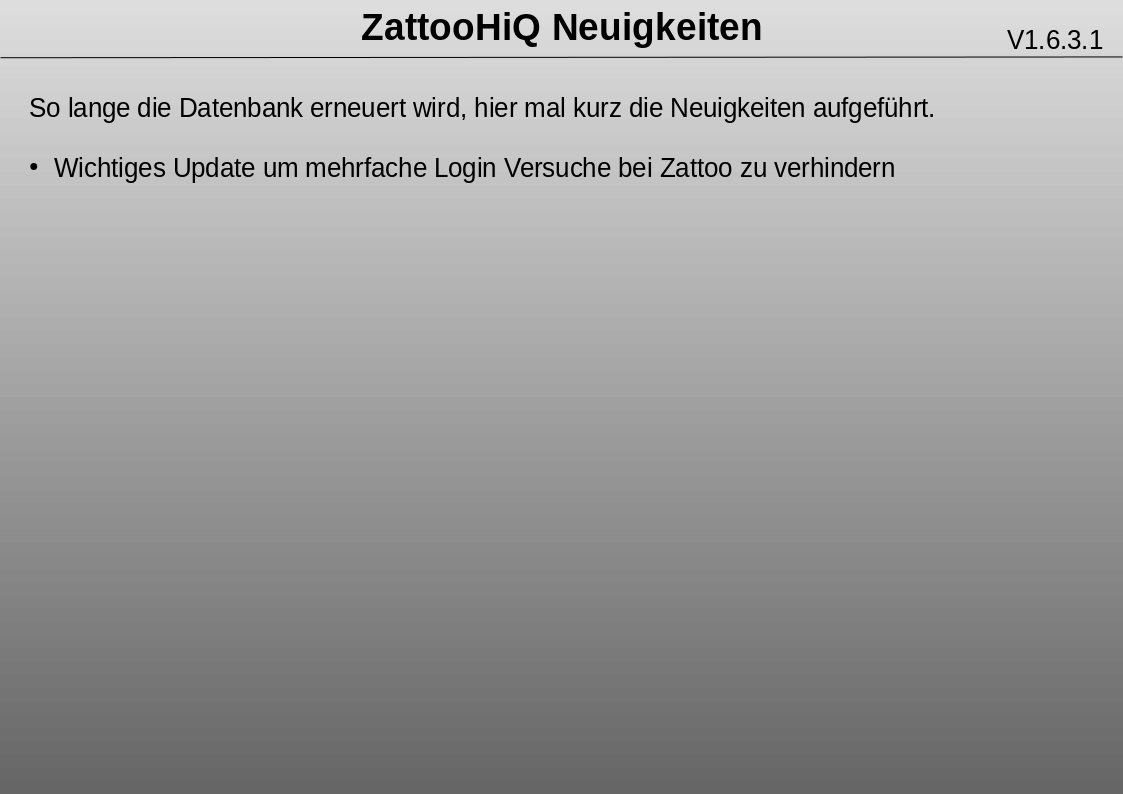
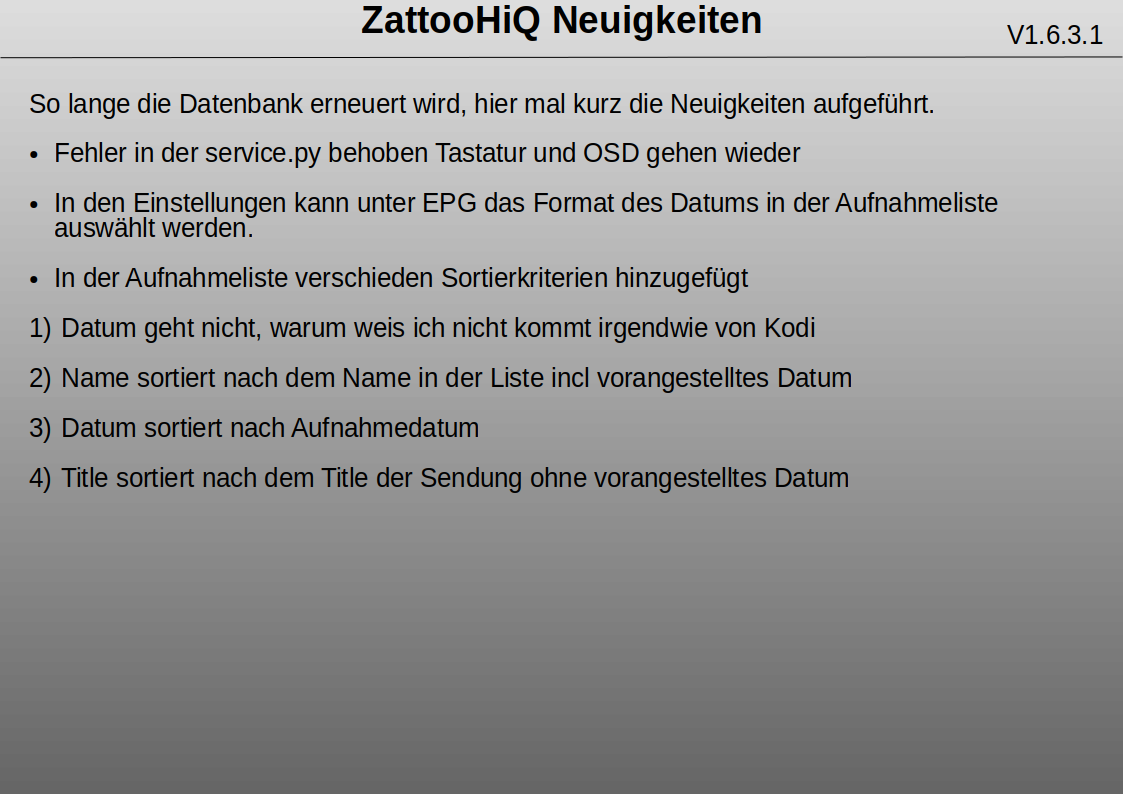
v1.6.7.1

diff --git a/plugin.video.zattooHiQ-2/plugin.py b/plugin.video.zattooHiQ-2/plugin.py
@@ -443,7 +443,10 @@ def build_recordingsList(addon_uri, addon_handle):
     if (now>end): color='green'
     if RECREADY == "true":
       if color != "green": continue
-    label=datetime.datetime.fromtimestamp(start).strftime('%d.%m.%Y. %H:%M')+' ' # NEW changed - by Samoth
+    if __addon__.getSetting('rec_name') == '0':
+        label=datetime.datetime.fromtimestamp(start).strftime('%Y.%m.%d. %H:%M')+' ' 
+    elif __addon__.getSetting('rec_name') == '1':
+        label=datetime.datetime.fromtimestamp(start).strftime('%a %d.%m.%Y. %H:%M')+' ' 
     if record['episode_title']:
       label+='[COLOR '+color+']'+record['title']+'[/COLOR]: '+record['episode_title']
       title=record['title']+': '+record['episode_title']
@@ -457,9 +460,9 @@ def build_recordingsList(addon_uri, addon_handle):
     
     director=[]
     cast=[]
-
-    meta.update({'title':label,'year':showInfo[0]['year'], 'plot':showInfo[0]['d'], 'country':showInfo[0]['country'],'director':showInfo[0]['cr']['director'], 'cast':showInfo[0]['cr']['actor'], 'genre':', '.join(showInfo[0]['g'])  })
-    meta.update({'title':label})
+    date = datetime.datetime.fromtimestamp(start).strftime('%d.%m.%Y')
+    meta.update({'title':label,'date':date,'year':showInfo[0]['year'], 'plot':showInfo[0]['d'], 'country':showInfo[0]['country'],'director':showInfo[0]['cr']['director'], 'cast':showInfo[0]['cr']['actor'], 'genre':', '.join(showInfo[0]['g'])  })
+    meta.update({'sorttitle':record['title']})
     '''
     #mark watched
     if (position>end-660):  #10min padding from zattoo +1min safety margin
@@ -510,8 +513,9 @@ def build_recordingsList(addon_uri, addon_handle):
     )
   xbmcplugin.endOfDirectory(addon_handle)
   xbmcplugin.setContent(addon_handle, 'movies')
-  xbmcplugin.addSortMethod(addon_handle, 2)
-  xbmcplugin.addSortMethod(addon_handle, 9)
+  xbmcplugin.addSortMethod(addon_handle, 1)
+  xbmcplugin.addSortMethod(addon_handle, 3)
+  xbmcplugin.addSortMethod(addon_handle, xbmcplugin.SORT_METHOD_VIDEO_SORT_TITLE )
 
 def watch_recording(addon_uri, addon_handle, recording_id, start=0):
   #if xbmc.Player().isPlaying(): return

diff --git a/plugin.video.zattooHiQ/plugin.py b/plugin.video.zattooHiQ/plugin.py
@@ -443,7 +443,10 @@ def build_recordingsList(addon_uri, addon_handle):
     if (now>end): color='green'
     if RECREADY == "true":
       if color != "green": continue
-    label=datetime.datetime.fromtimestamp(start).strftime('%d.%m.%Y. %H:%M')+' ' # NEW changed - by Samoth
+    if __addon__.getSetting('rec_name') == '0':
+        label=datetime.datetime.fromtimestamp(start).strftime('%Y.%m.%d. %H:%M')+' ' 
+    elif __addon__.getSetting('rec_name') == '1':
+        label=datetime.datetime.fromtimestamp(start).strftime('%a %d.%m.%Y. %H:%M')+' ' 
     if record['episode_title']:
       label+='[COLOR '+color+']'+record['title']+'[/COLOR]: '+record['episode_title']
       title=record['title']+': '+record['episode_title']
@@ -457,9 +460,9 @@ def build_recordingsList(addon_uri, addon_handle):
     
     director=[]
     cast=[]
-
-    meta.update({'title':label,'year':showInfo[0]['year'], 'plot':showInfo[0]['d'], 'country':showInfo[0]['country'],'director':showInfo[0]['cr']['director'], 'cast':showInfo[0]['cr']['actor'], 'genre':', '.join(showInfo[0]['g'])  })
-    meta.update({'title':label})
+    date = datetime.datetime.fromtimestamp(start).strftime('%d.%m.%Y')
+    meta.update({'title':label,'date':date,'year':showInfo[0]['year'], 'plot':showInfo[0]['d'], 'country':showInfo[0]['country'],'director':showInfo[0]['cr']['director'], 'cast':showInfo[0]['cr']['actor'], 'genre':', '.join(showInfo[0]['g'])  })
+    meta.update({'sorttitle':record['title']})
     '''
     #mark watched
     if (position>end-660):  #10min padding from zattoo +1min safety margin
@@ -510,8 +513,9 @@ def build_recordingsList(addon_uri, addon_handle):
     )
   xbmcplugin.endOfDirectory(addon_handle)
   xbmcplugin.setContent(addon_handle, 'movies')
-  xbmcplugin.addSortMethod(addon_handle, 2)
-  xbmcplugin.addSortMethod(addon_handle, 9)
+  xbmcplugin.addSortMethod(addon_handle, 1)
+  xbmcplugin.addSortMethod(addon_handle, 3)
+  xbmcplugin.addSortMethod(addon_handle, xbmcplugin.SORT_METHOD_VIDEO_SORT_TITLE )
 
 def watch_recording(addon_uri, addon_handle, recording_id, start=0):
   #if xbmc.Player().isPlaying(): return
